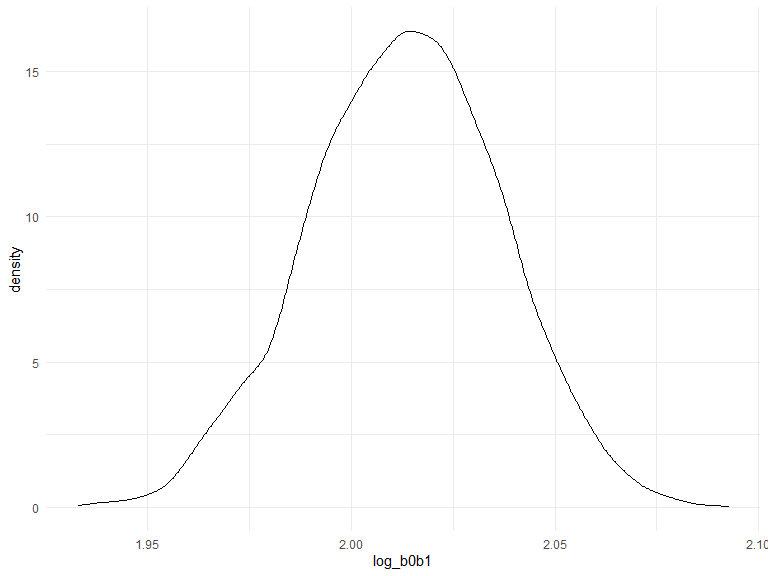
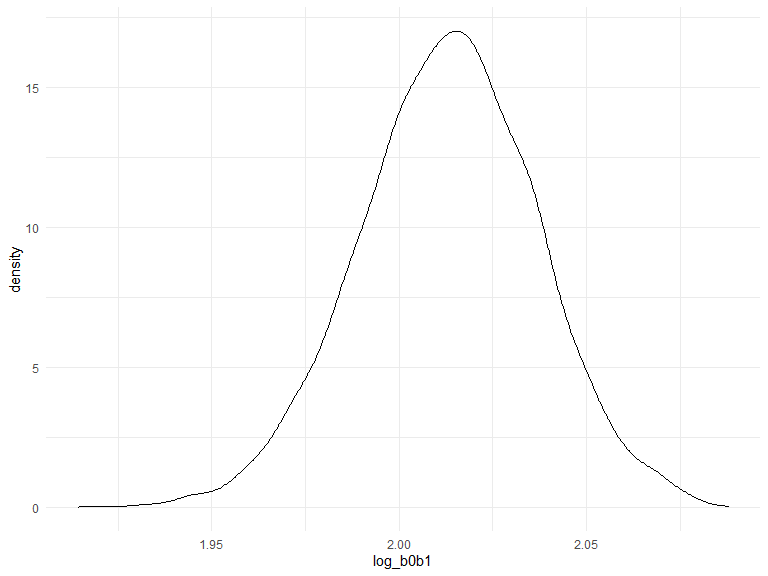
rerun

diff --git a/p8105_hw6_yc3883.md b/p8105_hw6_yc3883.md
@@ -144,9 +144,9 @@ model_1 %>%
     ## # A tibble: 3 x 5
     ##   term        estimate std.error statistic   p.value
     ##   <chr>          <dbl>     <dbl>     <dbl>     <dbl>
-    ## 1 (Intercept)  -5987.     109.       -55.0 0        
-    ## 2 bhead          148.       3.90      38.0 1.23e-264
-    ## 3 blength         82.7      2.31      35.9 3.61e-240
+    ## 1 (Intercept)  -5957.     107.       -55.5 0        
+    ## 2 bhead          148.       3.92      37.6 1.36e-260
+    ## 3 blength         82.6      2.30      35.8 1.04e-239
 
 ``` r
 model_2 %>% 
@@ -155,11 +155,11 @@ model_2 %>%
 ```
 
     ## # A tibble: 3 x 5
-    ##   term        estimate std.error statistic   p.value
-    ##   <chr>          <dbl>     <dbl>     <dbl>     <dbl>
-    ## 1 (Intercept)  -5143.     122.       -42.1 3.07e-313
-    ## 2 bhead          218.       3.78      57.5 0        
-    ## 3 gaweeks         23.9      1.94      12.3 4.24e- 34
+    ##   term        estimate std.error statistic  p.value
+    ##   <chr>          <dbl>     <dbl>     <dbl>    <dbl>
+    ## 1 (Intercept)  -5203.     121.       -43.1 0       
+    ## 2 bhead          218.       3.75      58.2 0       
+    ## 3 gaweeks         24.8      1.92      12.9 2.98e-37
 
 Comparing model\_1 and model\_2, model\_1 has a lower cross-validated
 prediction error. Also, the two predictors in model\_1 show a stronger
@@ -300,7 +300,7 @@ quantile(rs_est$r.squared, probs = c(0.025, 0.975))
 ```
 
     ##      2.5%     97.5% 
-    ## 0.8940395 0.9270183
+    ## 0.8936369 0.9272445
 
 ``` r
 ggp_rs_est = 
@@ -313,9 +313,9 @@ ggp_rs_est
 
 <img src="p8105_hw6_yc3883_files/figure-gfm/unnamed-chunk-10-1.png" width="90%" />
 
-The distribution of estimated r^2 has a mean of 0.9115577, which
+The distribution of estimated r^2 has a mean of 0.9115539, which
 represents a overrall strong association between “tmax” and “tmin”. The
-standard deviation of the distribution is 0.0083529.
+standard deviation of the distribution is 0.0086205.
 
 ## Problem 2 (c)
 
@@ -343,7 +343,7 @@ quantile(log_est$log_b0b1, probs = c(0.025, 0.975))
 ```
 
     ##     2.5%    97.5% 
-    ## 1.965643 2.058466
+    ## 1.964936 2.059031
 
 ``` r
 ggp_log_est = 
@@ -356,7 +356,7 @@ ggp_log_est
 
 <img src="p8105_hw6_yc3883_files/figure-gfm/unnamed-chunk-11-1.png" width="90%" />
 
-The distribution of estimated log(β0∗β1) has a mean of 2.0132576. The
-standard deviation of the distribution is 0.0236236. This distribution
+The distribution of estimated log(β0∗β1) has a mean of 2.0130682. The
+standard deviation of the distribution is 0.0237753. This distribution
 may be more approaching to a normal distribution compared with the
 estimated r^2 distribution, which has a little bit shift to right.
